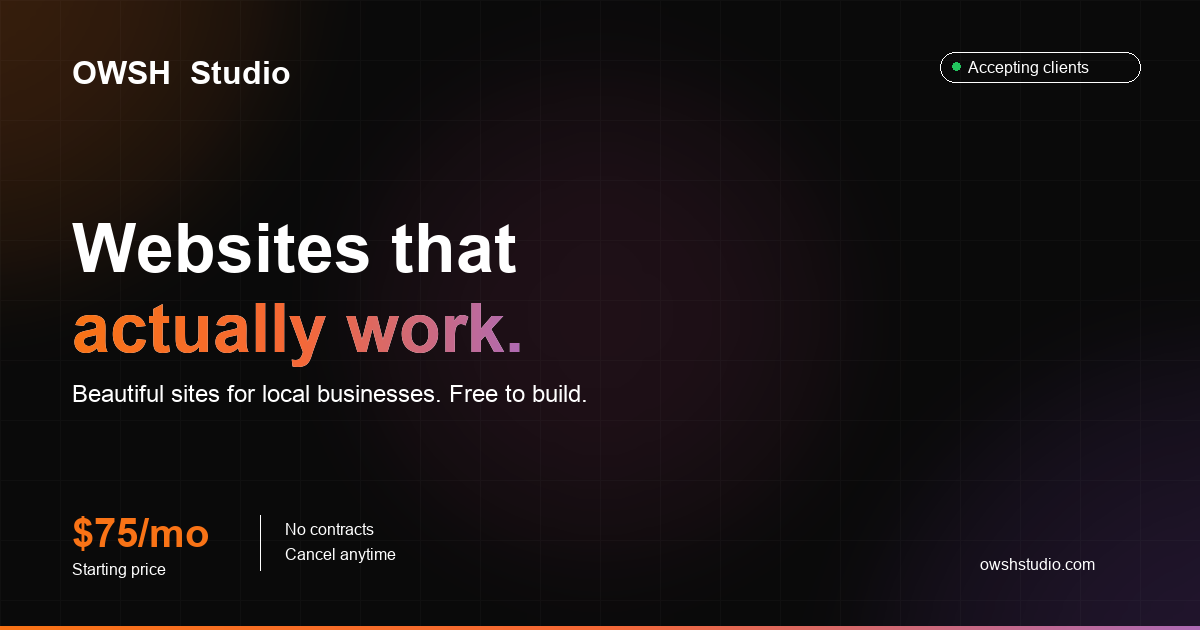
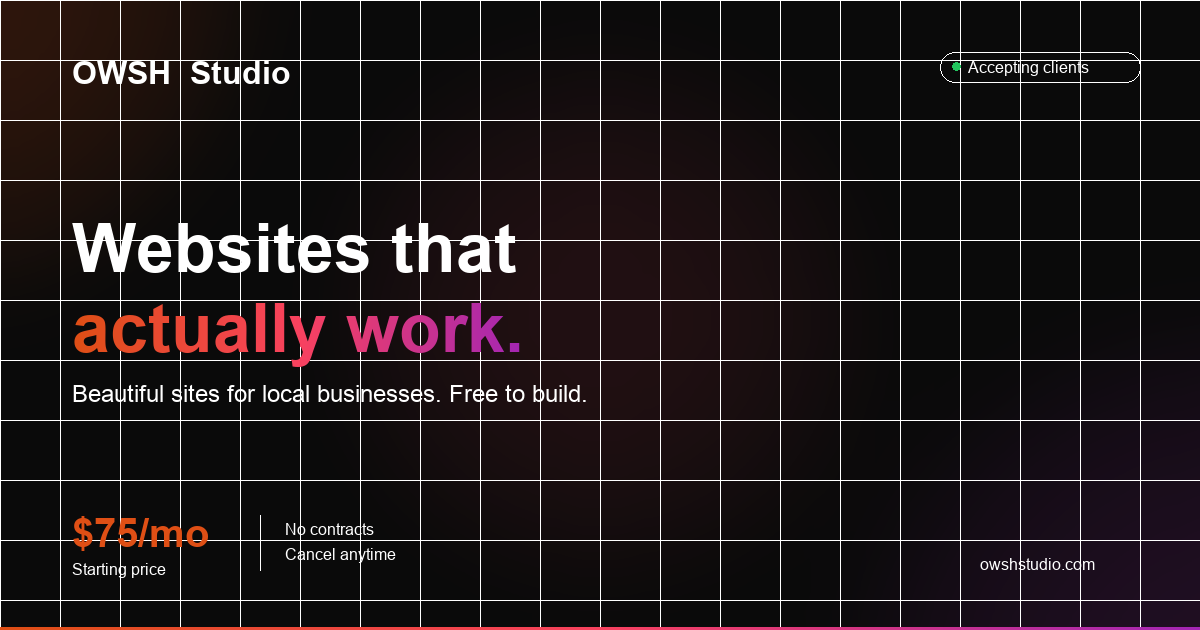
Update all gradients to exact brand colors: #DF4F15, #F9425F, #A326B5

Changed region(s): [[0.0617, 0.4825, 0.4625, 0.6032], [0.0, 0.9952, 1.0, 1.0], [0.0617, 0.8143, 0.185, 0.8746]]

diff --git a/src/app/opengraph-image.tsx b/src/app/opengraph-image.tsx
@@ -171,7 +171,7 @@ export default async function Image() {
                 fontWeight: 800,
                 lineHeight: 1.05,
                 letterSpacing: "-0.03em",
-                background: "linear-gradient(135deg, #f97316, #ec4899, #a855f7)",
+                background: "linear-gradient(135deg, #DF4F15, #F9425F, #A326B5)",
                 backgroundClip: "text",
                 color: "transparent",
               }}
@@ -215,7 +215,7 @@ export default async function Image() {
                   style={{
                     fontSize: "36px",
                     fontWeight: 700,
-                    background: "linear-gradient(135deg, #f97316, #ec4899, #a855f7)",
+                    background: "linear-gradient(135deg, #DF4F15, #F9425F, #A326B5)",
                     backgroundClip: "text",
                     color: "transparent",
                   }}
@@ -259,7 +259,7 @@ export default async function Image() {
             left: 0,
             right: 0,
             height: "4px",
-            background: "linear-gradient(90deg, #f97316, #ec4899, #a855f7)",
+            background: "linear-gradient(90deg, #DF4F15, #F9425F, #A326B5)",
           }}
         />
       </div>

diff --git a/tailwind.config.ts b/tailwind.config.ts
@@ -12,9 +12,9 @@ export default {
         background: "var(--background)",
         foreground: "var(--foreground)",
         owsh: {
-          orange: "#f97316",
-          magenta: "#ec4899",
-          purple: "#a855f7",
+          orange: "#DF4F15",
+          magenta: "#F9425F",
+          purple: "#A326B5",
           dark: "#0a0a0a",
           darker: "#050505",
           gray: {
@@ -38,7 +38,7 @@ export default {
       },
       backgroundImage: {
         "gradient-radial": "radial-gradient(var(--tw-gradient-stops))",
-        "owsh-gradient": "linear-gradient(135deg, #f97316 0%, #ec4899 50%, #a855f7 100%)",
+        "owsh-gradient": "linear-gradient(135deg, #DF4F15 0%, #F9425F 50%, #A326B5 100%)",
         "owsh-gradient-soft": "linear-gradient(135deg, rgba(249,115,22,0.2) 0%, rgba(236,72,153,0.2) 50%, rgba(168,85,247,0.2) 100%)",
       },
       animation: {

diff --git a/src/components/EasterEgg.tsx b/src/components/EasterEgg.tsx
@@ -6,13 +6,13 @@ export function EasterEgg() {
   useEffect(() => {
     // Console easter egg
     const styles = [
-      "color: #f97316",
+      "color: #DF4F15",
       "font-size: 20px",
       "font-weight: bold",
     ].join(";");
 
     const subStyles = [
-      "color: #a855f7",
+      "color: #A326B5",
       "font-size: 14px",
     ].join(";");
 
@@ -20,7 +20,7 @@ export function EasterEgg() {
     console.log("%cWe build websites that work.", subStyles);
     console.log(
       "%cLooking for a job? Email hello@owshunlimited.com",
-      "color: #ec4899; font-size: 12px;"
+      "color: #F9425F; font-size: 12px;"
     );
 
     // Konami code easter egg

diff --git a/src/app/globals.css b/src/app/globals.css
@@ -3,9 +3,9 @@
 :root {
   --background: #0a0a0a;
   --foreground: #ededed;
-  --gradient-start: #f97316;
-  --gradient-mid: #ec4899;
-  --gradient-end: #a855f7;
+  --gradient-start: #DF4F15;
+  --gradient-mid: #F9425F;
+  --gradient-end: #A326B5;
 }
 
 @theme inline {
